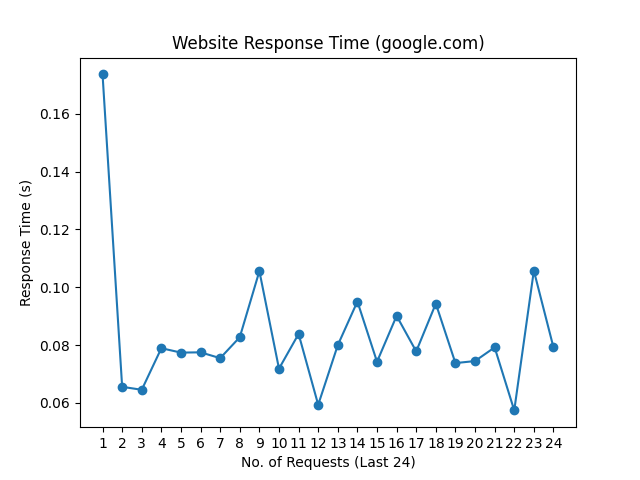
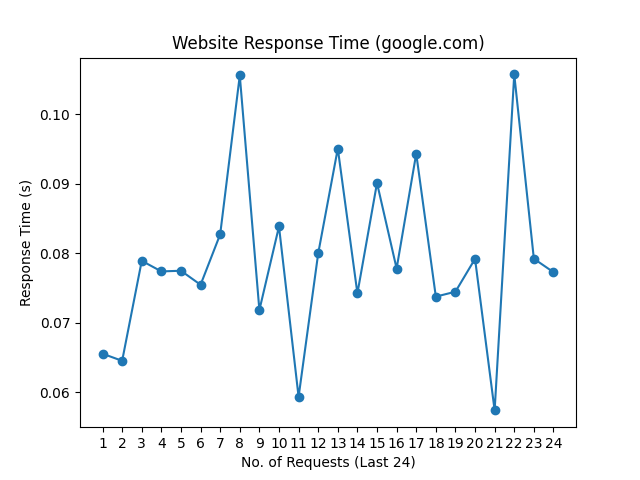
update README.md, history and graph

diff --git a/README.md b/README.md
@@ -1,10 +1,10 @@
 # Web Monitoring
 
-Last Checked: 01/05/2025 08:25
+Last Checked: 02/05/2025 08:22
 
 | Website | Response Time (s) | Status | Avg Uptime (%) |
 |---------|-------------------|--------|----------------|
 | www.thiswebsiteisdown.net | 0 <br> <img src="graph/thiswebsiteisdown.net.png" alt="Graph" width="200" height="200">  | ❌ Down | 0.00 |
-| www.netflix.com | 0.655993 <br> <img src="graph/netflix.com.png" alt="Graph" width="200" height="200">  | ✅ Up | 99.68 |
-| www.google.com | 0.079197 <br> <img src="graph/google.com.png" alt="Graph" width="200" height="200">  | ✅ Up | 100.00 |
-| www.facebook.com | 0.972101 <br> <img src="graph/facebook.com.png" alt="Graph" width="200" height="200">  | ✅ Up | 100.00 |
+| www.netflix.com | 0.754111 <br> <img src="graph/netflix.com.png" alt="Graph" width="200" height="200">  | ✅ Up | 99.68 |
+| www.google.com | 0.077261 <br> <img src="graph/google.com.png" alt="Graph" width="200" height="200">  | ✅ Up | 100.00 |
+| www.facebook.com | 0.610186 <br> <img src="graph/facebook.com.png" alt="Graph" width="200" height="200">  | ✅ Up | 100.00 |
